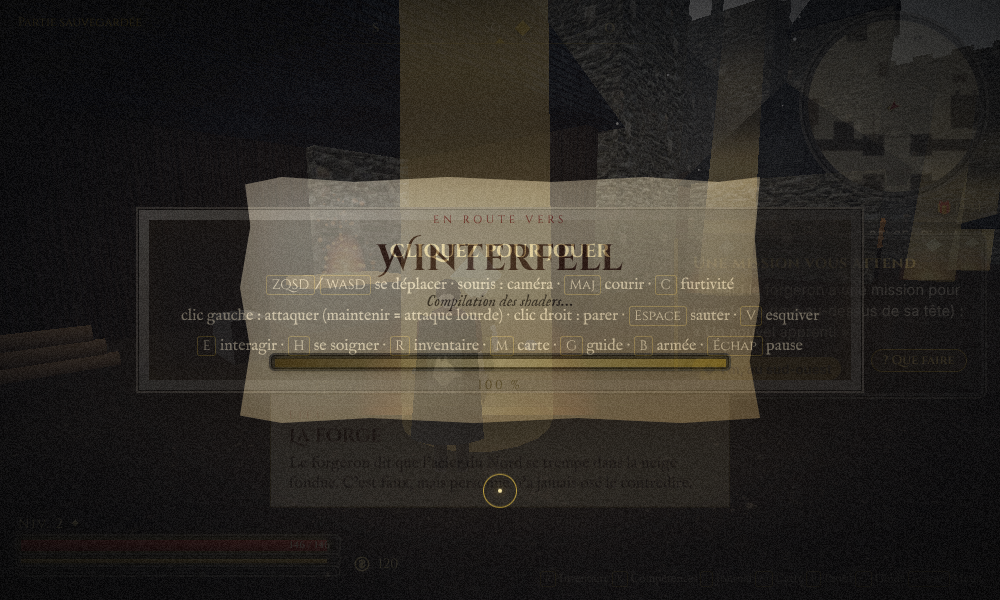
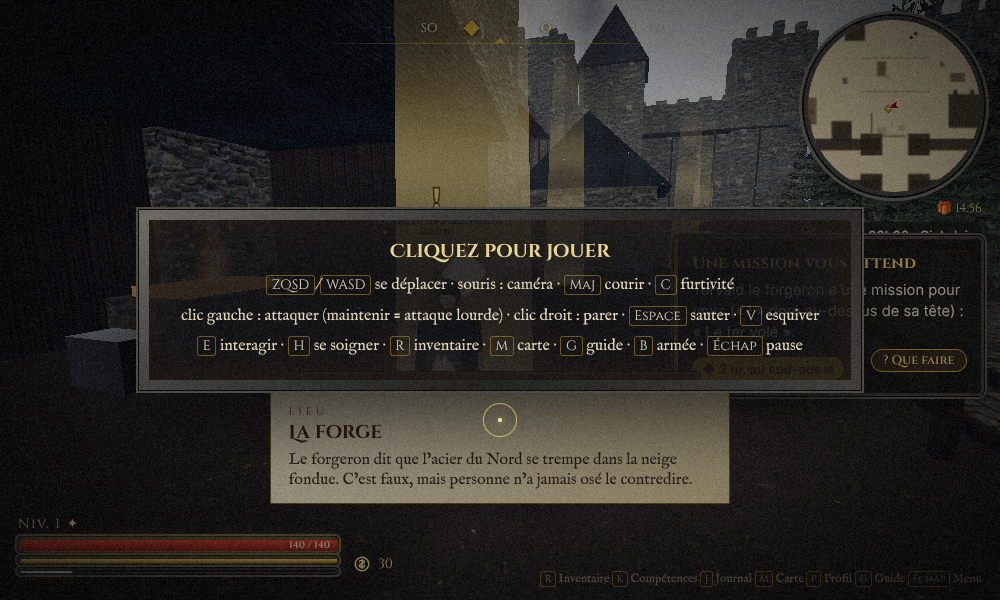
Winterfell : les lices de la cour d'entraînement ne barrent plus le chemin de la forge
Claude-Session: https://claude.ai/code/session_01SQ5f4birwTAVfimk7X8kgw

diff --git a/js/scenes/details/winterfellMore.js b/js/scenes/details/winterfellMore.js
@@ -23,7 +23,7 @@ export function winterfellMore(ctx) {
   const mare = new THREE.Mesh(new THREE.CircleGeometry(3, 24), new THREE.MeshStandardMaterial({ color: '#0e1414', roughness: .02, metalness: .4 })); mare.rotation.x = -Math.PI / 2; mare.position.set(-32, .06, -17); ctx.add(mare);
   ctx.poi(-36, -12, 'La mare noire', 'Au pied de l’arbre-cœur, une eau froide et noire où Lord Stark vient nettoyer sa grande épée, Glace, après chaque exécution.');
   // cour d'entraînement : lices, râtelier, mannequins, bottes de paille
-  P.fence(-10, 2, 10, 2); P.fence(-10, 12, 10, 12);
+  P.fence(-14, 2, -5, 2); P.fence(-14, 11, -5, 11);
   for (let k = 0; k < 5; k++) ctx.box(.06, 2.2, .06, -14 + k * .35, 0, 6, mat(null, { color: '#7a6a50' }), { solid: false });
   ctx.box(2, .15, .3, -13.3, 1.8, 6, timber, { solid: false }); P.hay(-15, 9); P.hay(14, 4, .8);
   ctx.poi(0, 7, 'La cour d’entraînement', 'Les fils Stark y apprennent l’épée sous l’œil du maître d’armes, et les filles parfois aussi, quand il regarde ailleurs. Les flèches se plantent dans les cibles… ou à côté.');
